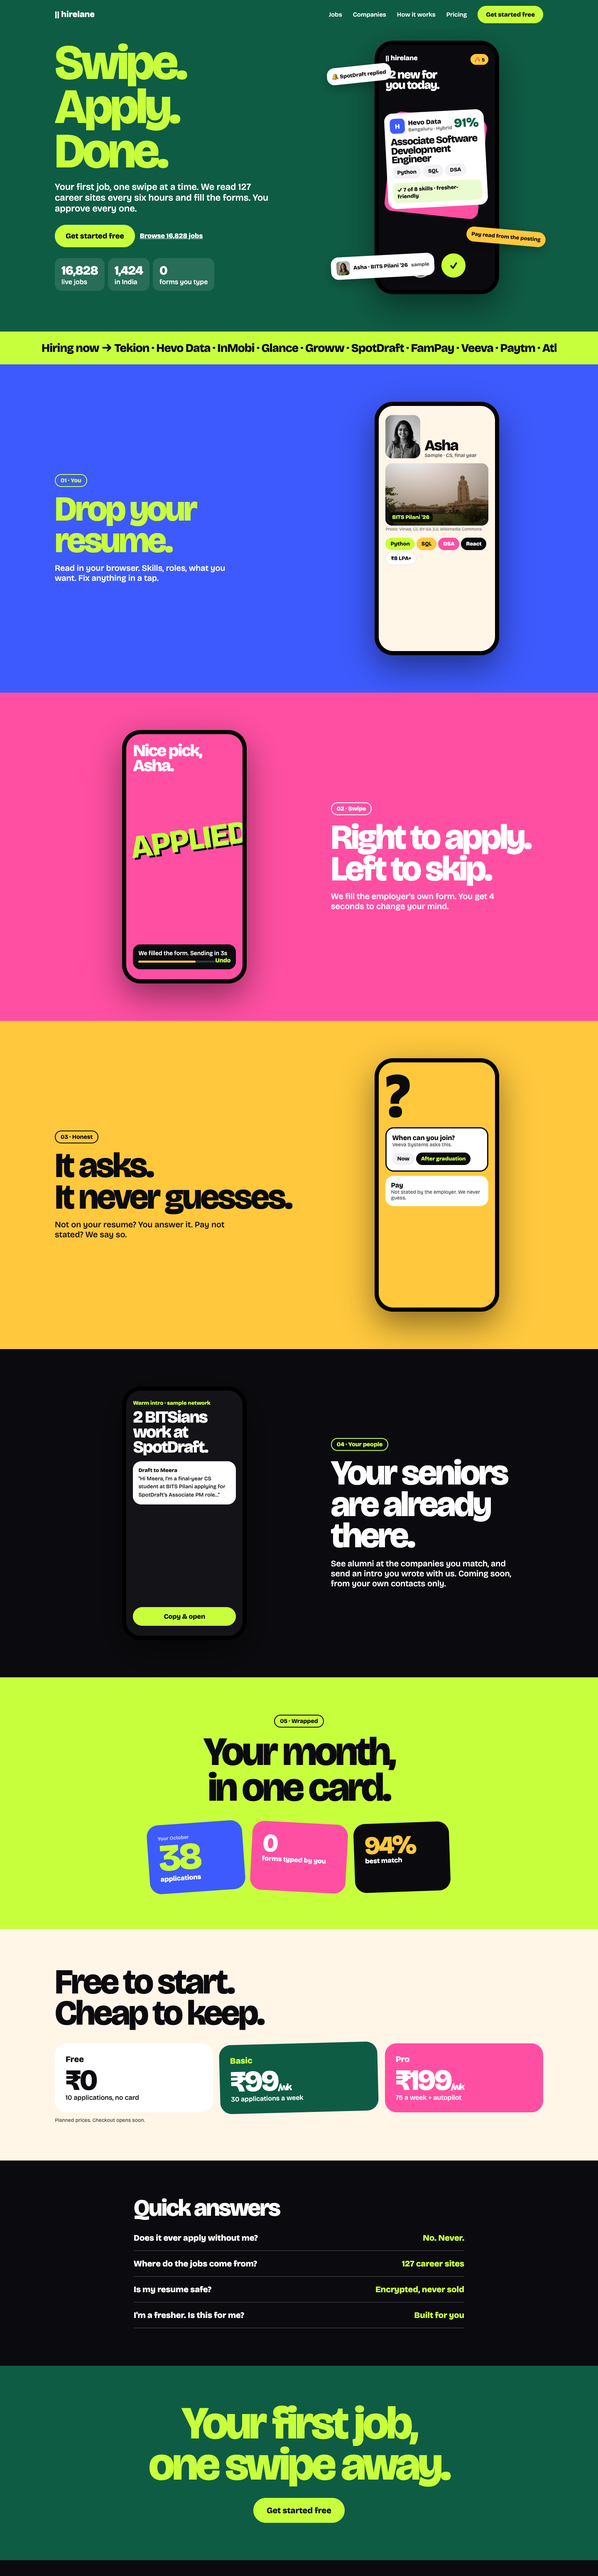
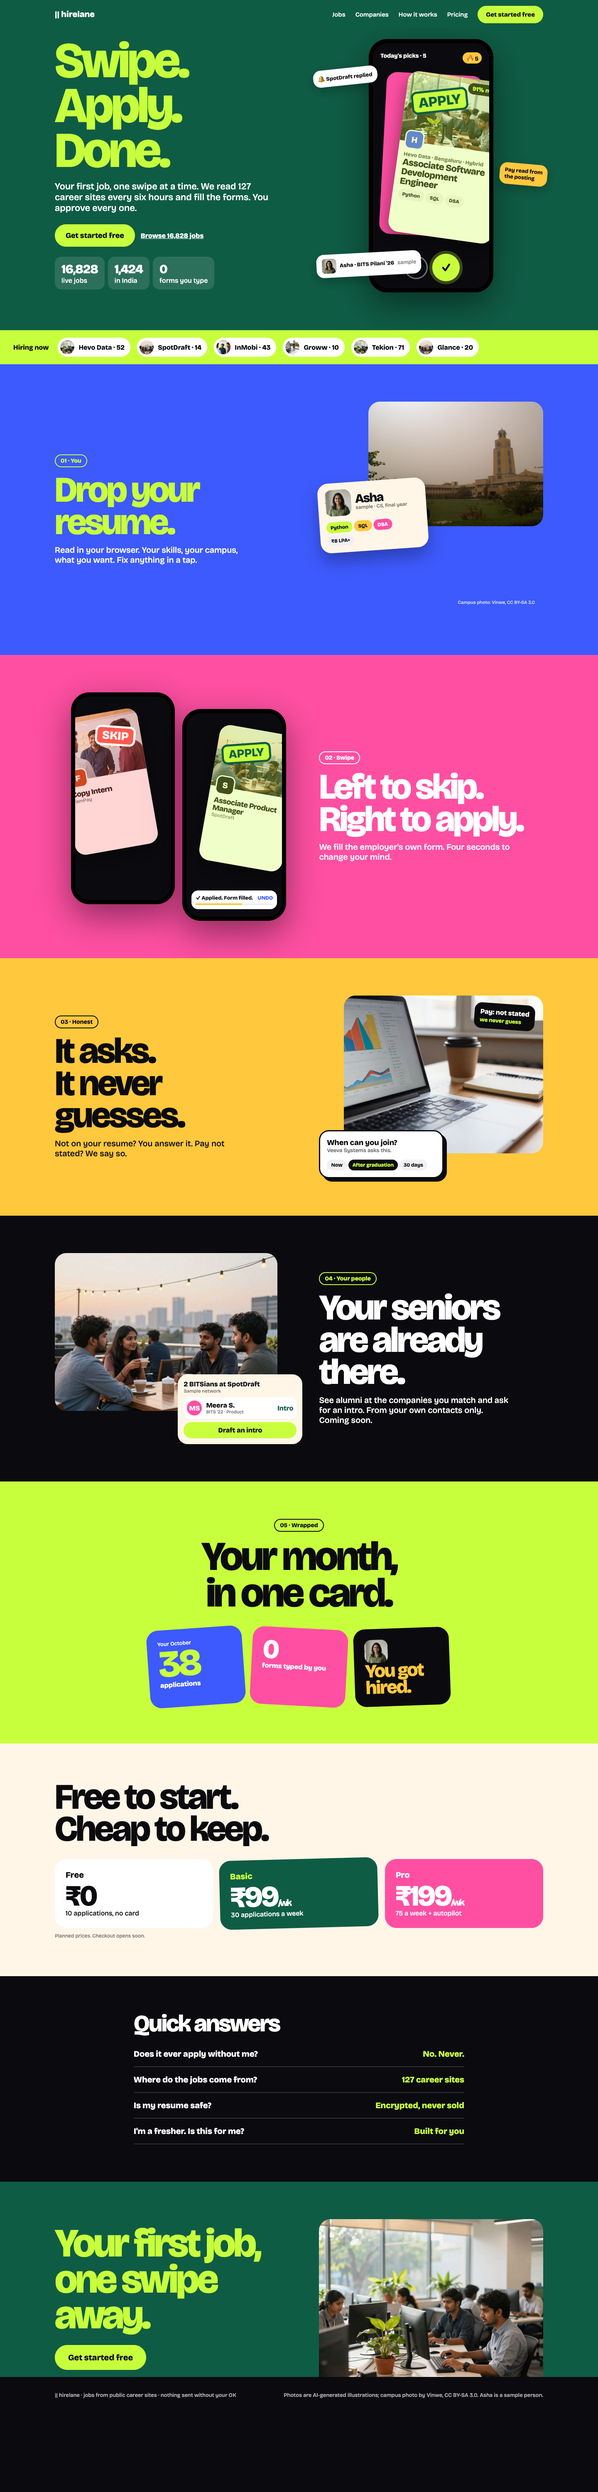
docs(mocks): hub interaction states in the approved Wrapped style

diff --git a/docs/mocks/genz-a-hubs-states.html b/docs/mocks/genz-a-hubs-states.html
@@ -1,0 +1,87 @@
+<!doctype html><html><head><meta charset="utf-8"><title>Hirelane mock A: hub screens v2</title>
+<link href="https://fonts.googleapis.com/css2?family=Bricolage+Grotesque:opsz,wght@12..96,500;12..96,800&display=swap" rel="stylesheet">
+<style>
+:root{--ink:#0B0B0F;--lane:#0F5C45;--lime:#C8FF3D;--pink:#FF4FA3;--blue:#3D5AFE;--sun:#FFC83D;--cream:#FFF6E8}
+*{box-sizing:border-box;margin:0}body{font-family:'Bricolage Grotesque',system-ui,sans-serif;background:#141418;color:#fff;padding:34px 36px}
+h1.t{font-size:15px;font-weight:500;opacity:.6;margin-bottom:20px}.row{display:flex;gap:26px;justify-content:center}
+.ph{width:300px;height:640px;border-radius:44px;background:#000;padding:10px;box-shadow:0 24px 60px rgba(0,0,0,.5);flex:none}
+.sc{width:100%;height:100%;border-radius:35px;overflow:hidden;position:relative;padding:0 14px 76px}
+.sb{display:flex;justify-content:space-between;font-size:12px;font-weight:800;padding:12px 8px 8px}
+.lab{font-size:12px;opacity:.55;text-align:center;margin-top:10px}.big{font-weight:800;line-height:.92;letter-spacing:-.045em}
+.card{background:#fff;color:var(--ink);border-radius:18px;padding:11px}.small{font-size:11.5px;opacity:.72}
+.tb{position:absolute;left:10px;right:10px;bottom:10px;height:58px;background:rgba(11,11,15,.94);border-radius:22px;display:grid;grid-template-columns:repeat(5,1fr);align-items:center;text-align:center;font-size:10px;color:#9a9aa5}
+.tb svg{width:20px;height:20px;display:block;margin:0 auto 2px;stroke:currentColor;fill:none;stroke-width:2.2;stroke-linecap:round;stroke-linejoin:round}
+.tb .on{color:var(--lime);font-weight:800}.tb .on svg{stroke:var(--lime)}
+.dot{position:absolute;top:8px;right:22%;width:8px;height:8px;border-radius:50%;background:var(--pink)}
+.story{width:54px;flex:none;text-align:center;font-size:10px}.story span{display:grid;place-items:center;width:54px;height:54px;border-radius:50%;font-weight:800;border:3px solid var(--lime);outline:2px solid var(--ink);outline-offset:-5px;color:#fff}
+.ch{display:inline-block;padding:6px 10px;border-radius:99px;font-size:12px;font-weight:800;margin:3px 3px 0 0}
+.av{width:30px;height:30px;border-radius:50%;display:grid;place-items:center;font-weight:800;font-size:11px;border:2px solid #fff;margin-left:-8px}
+.lab b{color:var(--lime)}.press{transform:scale(.96);box-shadow:inset 0 0 0 3px rgba(0,0,0,.15)}
+.sheet{position:absolute;left:0;right:0;bottom:0;border-radius:28px 28px 0 0;padding:12px 16px 84px;box-shadow:0 -12px 30px rgba(0,0,0,.3)}
+.grab{width:40px;height:5px;border-radius:5px;background:rgba(0,0,0,.25);margin:0 auto 10px}
+.toastx{position:absolute;left:14px;right:14px;bottom:80px;border-radius:16px;padding:11px 13px;font-weight:800;font-size:13px;box-shadow:0 10px 24px rgba(0,0,0,.3);z-index:5}
+.thumb{width:34px;height:34px;border-radius:10px;background-size:cover;background-position:center;flex:none}
+.tl{border-left:3px solid rgba(0,0,0,.15);margin-left:8px;padding-left:14px}.tl div{position:relative;padding:5px 0;font-size:12.5px}.tl div::before{content:"";position:absolute;left:-21px;top:9px;width:11px;height:11px;border-radius:50%;background:var(--ink)}
+</style></head><body>
+<h1 class="t">MOCK A · hub screens · interaction states in the approved Wrapped style · two states per tab · photos small and supporting · samples labelled</h1>
+<svg width="0" height="0" style="position:absolute"><defs>
+<symbol id="home" viewBox="0 0 24 24"><path d="M3 11l9-7 9 7v9a1 1 0 0 1-1 1h-5v-6H9v6H4a1 1 0 0 1-1-1z"/></symbol>
+<symbol id="disc" viewBox="0 0 24 24"><circle cx="11" cy="11" r="7"/><path d="M20 20l-3.5-3.5"/></symbol>
+<symbol id="comp" viewBox="0 0 24 24"><rect x="4" y="3" width="16" height="18" rx="2"/><path d="M9 7h2M13 7h2M9 11h2M13 11h2M10 21v-4h4v4"/></symbol>
+<symbol id="net" viewBox="0 0 24 24"><circle cx="6" cy="7" r="3"/><circle cx="18" cy="7" r="3"/><circle cx="12" cy="18" r="3"/><path d="M8.5 8.5l2 7M15.5 8.5l-2 7M9 7h6"/></symbol>
+<symbol id="you" viewBox="0 0 24 24"><circle cx="12" cy="8" r="4"/><path d="M4 21a8 8 0 0 1 16 0"/></symbol>
+</defs></svg>
+<div class="row" style="margin-bottom:26px"><div><div class="ph"><div class="sc" style="background:var(--ink);color:#fff"><div class="sb"><span>9:41</span><span>5G ▮▮▮ 82%</span></div><div style="display:flex;justify-content:space-between;align-items:center"><b style="font-size:15px">|| hirelane</b><span style="background:var(--sun);color:var(--ink);border-radius:99px;padding:4px 9px;font-weight:800;font-size:12px">🔥 5 days</span></div>
+<div style="display:flex;gap:8px;margin-top:12px"><div class="story" style="transform:scale(1.12)"><span style="background:var(--pink);box-shadow:0 0 0 4px rgba(255,79,163,.35)">S</span>SpotDraft</div><div class="story" style="opacity:.5"><span style="background:var(--blue)">V</span>Veeva</div><div class="story" style="opacity:.5"><span style="background:var(--lane)">H</span>Hevo</div><div class="story" style="opacity:.5"><span style="background:#C2410C">F</span>FamPay</div></div>
+<div style="position:absolute;left:10px;right:10px;top:120px;bottom:76px;background:var(--pink);border-radius:26px;padding:14px;transform-origin:30% 0;box-shadow:0 20px 40px rgba(0,0,0,.4)">
+ <div style="display:flex;gap:4px"><i style="flex:1;height:4px;border-radius:4px;background:#fff"></i><i style="flex:1;height:4px;border-radius:4px;background:rgba(255,255,255,.4)"></i><i style="flex:1;height:4px;border-radius:4px;background:rgba(255,255,255,.4)"></i></div>
+ <div style="display:flex;gap:8px;align-items:center;margin-top:10px"><div style="width:34px;height:34px;border-radius:10px;background:var(--ink);color:var(--lime);display:grid;place-items:center;font-weight:800">S</div><b>SpotDraft</b><span class="small" style="color:#fff">· 2h</span></div>
+ <div class="big" style="font-size:96px;margin-top:14px">3</div><div class="big" style="font-size:30px">new roles this week.</div>
+ <div style="margin-top:12px;display:grid;gap:6px"><div class="card" style="display:flex;justify-content:space-between"><b style="font-size:13px">Associate PM</b><b style="color:var(--lane)">88%</b></div><div class="card" style="display:flex;justify-content:space-between"><b style="font-size:13px">Analyst</b><b style="color:var(--lane)">81%</b></div></div>
+ <div style="position:absolute;left:14px;right:14px;bottom:14px;display:flex;gap:8px"><div style="flex:1;border:3px solid #fff;border-radius:99px;padding:10px;text-align:center;font-weight:800">Follow</div><div style="flex:1.4;background:var(--lime);color:var(--ink);border-radius:99px;padding:10px;text-align:center;font-weight:800">Swipe these</div></div>
+</div><div class="tb"><div class="on"><svg><use href="#home"/></svg>Home</div><div class=""><svg><use href="#disc"/></svg>Discover</div><div class=""><svg><use href="#comp"/></svg>Companies</div><div class=""><svg><use href="#net"/></svg>Network</div><div class=""><svg><use href="#you"/></svg>You</div></div></div></div><div class="lab"><b>Home · tap a story.</b> The bubble pops, its colour block grows into a story: big number, roles, Follow / Swipe. Tap to advance, swipe down to close.</div></div><div><div class="ph"><div class="sc" style="background:var(--ink);color:#fff"><div class="sb"><span>9:41</span><span>5G ▮▮▮ 82%</span></div><div style="display:flex;justify-content:space-between;align-items:center"><b style="font-size:15px">Today's picks</b><span class="small" style="color:#fff">3 of 5</span></div>
+<div style="display:flex;gap:4px;margin-top:8px"><i style="flex:1;height:4px;border-radius:4px;background:var(--lime)"></i><i style="flex:1;height:4px;border-radius:4px;background:var(--lime)"></i><i style="flex:1;height:4px;border-radius:4px;background:rgba(255,255,255,.3)"></i><i style="flex:1;height:4px;border-radius:4px;background:rgba(255,255,255,.3)"></i><i style="flex:1;height:4px;border-radius:4px;background:rgba(255,255,255,.3)"></i></div>
+<div class="card" style="position:absolute;left:24px;right:24px;top:96px;height:330px;background:var(--blue);transform:rotate(4deg)"></div>
+<div class="card" style="position:absolute;left:16px;right:16px;top:90px;height:340px;background:var(--sun);transform:translateX(30px) rotate(7deg);padding:16px">
+ <div style="position:absolute;left:14px;top:18px;background:var(--lime);border:3px solid var(--ink);border-radius:12px;padding:2px 10px;font-weight:800;font-size:22px;transform:rotate(-12deg)">APPLY</div>
+ <div style="display:flex;justify-content:flex-end"><b style="font-size:30px">94%</b></div>
+ <div style="display:flex;gap:8px;align-items:center;margin-top:30px"><div class="thumb" style="background-image:url(img/office-d.jpg)"></div><b>Veeva Systems</b></div>
+ <div class="big" style="font-size:32px;margin-top:8px">Associate Software Engineer</div>
+ <div style="margin-top:6px"><span class="ch" style="background:#fff">Java</span><span class="ch" style="background:#fff">SQL</span><span class="ch" style="background:#fff">Testing</span></div>
+ <div style="margin-top:10px;background:var(--ink);color:var(--lime);border-radius:12px;padding:8px 10px;font-weight:800;font-size:12.5px">✓ 6 of 7 · fresher-friendly</div>
+</div>
+<div style="position:absolute;bottom:76px;left:0;right:0;display:flex;justify-content:center;gap:18px"><span style="width:52px;height:52px;border-radius:50%;border:3px solid #fff;display:grid;place-items:center;font-weight:800;opacity:.4">✕</span><span style="width:60px;height:60px;border-radius:50%;background:var(--lime);color:var(--ink);display:grid;place-items:center;font-weight:800;font-size:22px;box-shadow:0 0 0 7px rgba(200,255,61,.25)">✓</span></div><div class="tb"><div class="on"><svg><use href="#home"/></svg>Home</div><div class=""><svg><use href="#disc"/></svg>Discover</div><div class=""><svg><use href="#comp"/></svg>Companies</div><div class=""><svg><use href="#net"/></svg>Network</div><div class=""><svg><use href="#you"/></svg>You</div></div></div></div><div class="lab"><b>Home · swiping picks.</b> Tap the picks tile and the stack takes the screen: story bars track progress, the colour card tilts with APPLY, ✓ swells.</div></div><div><div class="ph"><div class="sc" style="background:var(--pink);color:#fff"><div class="sb"><span>9:41</span><span>5G ▮▮▮ 82%</span></div><div class="big" style="font-size:36px">Discover</div>
+<div style="background:#fff;color:var(--ink);border-radius:18px;padding:10px 14px;font-size:14px;margin-top:8px;border:3px solid var(--ink)"><b>data an</b><span style="display:inline-block;width:2px;height:16px;background:var(--ink);vertical-align:middle;animation:none"></span></div>
+<div class="card" style="margin-top:6px;padding:6px">
+ <div style="padding:8px;border-radius:12px;background:var(--lime);font-weight:800">data an<span style="opacity:.5">alyst</span> <span class="small">· 42 jobs</span></div>
+ <div style="padding:8px;font-weight:800">data an<span style="opacity:.5">alytics intern</span> <span class="small">· 9</span></div>
+ <div style="padding:8px;font-weight:800">data an<span style="opacity:.5">notation</span> <span class="small">· 3</span></div>
+ <div style="padding:8px;display:flex;gap:8px;align-items:center;border-top:1px solid #eee"><div class="thumb" style="background-image:url(img/office-a.jpg);width:28px;height:28px"></div><b style="font-size:13px">Hevo Data</b><span class="small">company · 52 roles</span></div>
+</div>
+<div class="small" style="margin-top:10px;color:#fff;opacity:.9">Recent: <b>SDE fresher</b> · <b>remote internships</b></div><div class="tb"><div class=""><svg><use href="#home"/></svg>Home</div><div class="on"><svg><use href="#disc"/></svg>Discover</div><div class=""><svg><use href="#comp"/></svg>Companies</div><div class=""><svg><use href="#net"/></svg>Network</div><div class=""><svg><use href="#you"/></svg>You</div></div></div></div><div class="lab"><b>Discover · typing.</b> Suggestions complete as you type with live counts; companies show a tiny photo. Tap a row to jump.</div></div><div><div class="ph"><div class="sc" style="background:var(--pink);color:var(--ink)"><div class="sb"><span>9:41</span><span>5G ▮▮▮ 82%</span></div><div class="big" style="font-size:36px;opacity:.5">Discover</div>
+<div class="sheet" style="background:var(--cream);color:var(--ink);height:430px"><div class="grab"></div>
+<div style="display:flex;justify-content:space-between"><b style="font-size:18px">Filters</b><b style="color:var(--blue)">Reset</b></div>
+<div style="font-weight:800;margin-top:10px;font-size:13px">Experience</div><div><span class="ch" style="background:var(--ink);color:var(--lime)">Fresher</span><span class="ch press" style="background:#ddd">0–2 yrs</span></div>
+<div style="font-weight:800;margin-top:10px;font-size:13px">Minimum pay</div>
+<div style="position:relative;height:36px;margin-top:4px"><div style="position:absolute;top:20px;left:0;right:0;height:6px;border-radius:6px;background:#ddd"></div><div style="position:absolute;top:20px;left:0;width:48%;height:6px;border-radius:6px;background:var(--lane)"></div><div style="position:absolute;top:10px;left:45%;width:26px;height:26px;border-radius:50%;background:var(--lime);border:3px solid var(--ink);transform:scale(1.25)"></div><div style="position:absolute;left:36%;top:-14px;background:var(--ink);color:var(--lime);border-radius:8px;padding:2px 8px;font-weight:800;font-size:12px">₹6 LPA</div></div>
+<div style="font-weight:800;margin-top:8px;font-size:13px">Where</div><div><span class="ch" style="background:var(--ink);color:var(--lime)">Bengaluru</span><span class="ch" style="background:var(--ink);color:var(--lime)">Remote</span><span class="ch" style="background:#fff;border:1px solid #ddd">Pune</span></div>
+<div style="position:absolute;left:16px;right:16px;bottom:16px;background:var(--lane);color:var(--lime);border-radius:99px;padding:13px;text-align:center;font-weight:800">Show 128 jobs <span style="font-size:12px;opacity:.75">↓ 214</span></div></div></div></div><div class="lab"><b>Discover · filtering.</b> Chips squish when pressed, the pay thumb grows while dragged, and the button count drops live.</div></div></div><div class="row" style="margin-bottom:26px"><div><div class="ph"><div class="sc" style="background:var(--sun);color:var(--ink)"><div class="sb"><span>9:41</span><span>5G ▮▮▮ 82%</span></div><div style="display:flex;gap:10px;align-items:center"><div style="width:54px;height:54px;border-radius:16px;background:var(--ink);color:var(--lime);display:grid;place-items:center;font-weight:800;font-size:24px">S</div><div><div class="big" style="font-size:28px">SpotDraft</div><div class="small">read 2h ago</div></div></div>
+<div style="display:flex;gap:8px;margin-top:10px"><div style="flex:1;background:var(--lane);color:var(--lime);border-radius:99px;padding:9px;text-align:center;font-weight:800">✓ Following</div><div style="background:#fff;border-radius:99px;padding:9px 14px;font-weight:800">Share</div></div>
+<div style="display:grid;grid-template-columns:1fr 1fr;gap:8px;margin-top:10px"><div class="card"><div class="big" style="font-size:30px">14</div><div class="small">open roles</div></div><div class="card press" style="background:var(--pink);color:#fff"><b>2 BITSians here</b><div class="small" style="color:#fff">tap for an intro</div></div></div>
+<div class="toastx" style="background:var(--ink);color:#fff">✓ Following SpotDraft <span style="color:var(--lime)">· new roles land in your Home stories</span></div><div class="tb"><div class=""><svg><use href="#home"/></svg>Home</div><div class=""><svg><use href="#disc"/></svg>Discover</div><div class="on"><svg><use href="#comp"/></svg>Companies</div><div class=""><svg><use href="#net"/></svg>Network</div><div class=""><svg><use href="#you"/></svg>You</div></div></div></div><div class="lab"><b>Company · follow.</b> The button flips to "Following" in lane green with a toast. The alumni tile presses in, about to open.</div></div><div><div class="ph"><div class="sc" style="background:var(--sun);color:var(--ink)"><div class="sb"><span>9:41</span><span>5G ▮▮▮ 82%</span></div><div class="big" style="font-size:28px;opacity:.45">SpotDraft</div>
+<div class="sheet" style="background:var(--ink);color:#fff;height:470px"><div class="grab" style="background:rgba(255,255,255,.3)"></div>
+<div class="big" style="font-size:32px">2 BITSians at SpotDraft</div><div class="small" style="color:var(--lime);opacity:1">Sample network · from your own contacts later</div>
+<div style="display:flex;gap:10px;align-items:center;margin-top:12px;background:var(--pink);border-radius:18px;padding:11px"><div style="width:42px;height:42px;border-radius:50%;background:var(--ink);display:grid;place-items:center;font-weight:800">MS</div><div style="flex:1"><b>Meera S.</b><div class="small" style="color:#fff">BITS '22 · Product · strong tie</div></div><b>Intro →</b></div>
+<div style="display:flex;gap:10px;align-items:center;margin-top:8px;background:var(--blue);border-radius:18px;padding:11px"><div style="width:42px;height:42px;border-radius:50%;background:var(--ink);display:grid;place-items:center;font-weight:800">RK</div><div style="flex:1"><b>Rohan K.</b><div class="small" style="color:#fff">BITS '23 · Engineering</div></div><b>Intro →</b></div>
+<div class="card" style="margin-top:10px;font-size:12.5px;line-height:1.5"><b>Draft to Meera</b><br>"Hi Meera, I'm a final-year CS student at BITS Pilani applying for SpotDraft's Associate PM role…"</div>
+<div style="position:absolute;left:16px;right:16px;bottom:16px;background:var(--lime);color:var(--ink);border-radius:99px;padding:13px;text-align:center;font-weight:800">Copy &amp; open</div></div></div></div><div class="lab"><b>Company · alumni sheet.</b> Colour-block rows per person, the draft intro ready to copy. You send it yourself.</div></div><div><div class="ph"><div class="sc" style="background:var(--cream);color:var(--ink)"><div class="sb"><span>9:41</span><span>5G ▮▮▮ 82%</span></div><div style="display:flex;justify-content:space-between;align-items:center"><div class="big" style="font-size:28px">Tracker</div><span class="small">5 this week</span></div>
+<div class="card" style="margin-top:10px;background:var(--pink);color:#fff;padding:14px">
+ <div style="display:flex;gap:10px;align-items:center"><div class="thumb" style="background-image:url(img/office-c.jpg)"></div><div style="flex:1"><b>SpotDraft</b><div class="small" style="color:#fff">Associate PM</div></div><span style="border:3px solid #fff;border-radius:10px;padding:2px 8px;font-weight:800;transform:rotate(-6deg)">REPLY</span></div>
+ <div class="tl" style="margin-top:10px;border-left-color:rgba(255,255,255,.4)"><div style="--d:#fff">Matched 88% · Mon 9:02</div><div>Drafted · 1 question asked</div><div>You approved · Mon 9:14</div><div>Handed off to their own form</div><div style="font-weight:800">"Can you do a call Thursday?" · Wed</div></div>
+ <div style="display:flex;gap:8px;margin-top:10px"><div style="flex:1;border:3px solid #fff;border-radius:99px;padding:9px;text-align:center;font-weight:800">Add note</div><div style="flex:1.3;background:var(--lime);color:var(--ink);border-radius:99px;padding:9px;text-align:center;font-weight:800">Reply</div></div>
+</div>
+<div class="card" style="margin-top:8px;display:flex;justify-content:space-between;opacity:.6"><b>Veeva Systems</b><b style="color:var(--lane)">Handed off</b></div><div class="tb"><div class=""><svg><use href="#home"/></svg>Home</div><div class=""><svg><use href="#disc"/></svg>Discover</div><div class=""><svg><use href="#comp"/></svg>Companies</div><div class=""><svg><use href="#net"/></svg>Network</div><div class="on"><svg><use href="#you"/></svg>You</div></div></div></div><div class="lab"><b>You · tap an application.</b> The row grows into a colour card with the full timeline and the next action.</div></div><div><div class="ph"><div class="sc" style="background:var(--blue);color:#fff"><div class="sb"><span>9:41</span><span>5G ▮▮▮ 82%</span></div><div style="display:flex;gap:4px;margin-top:2px"><i style="flex:1;height:4px;border-radius:4px;background:#fff"></i><i style="flex:1;height:4px;border-radius:4px;background:#fff"></i><i style="flex:1;height:4px;border-radius:4px;background:rgba(255,255,255,.35)"></i><i style="flex:1;height:4px;border-radius:4px;background:rgba(255,255,255,.35)"></i></div>
+<div style="font-weight:800;margin-top:12px">Your October · replay</div>
+<div class="big" style="font-size:150px;color:var(--lime);margin-top:6px">38</div><div class="big" style="font-size:28px">applications.<br>Zero forms typed.</div>
+<div style="display:grid;grid-template-columns:1fr 1fr;gap:8px;margin-top:14px"><div class="card" style="background:var(--pink);color:#fff"><div class="big" style="font-size:28px">SDE</div><div class="small" style="color:#fff">top role</div></div><div class="card" style="background:var(--sun)"><div class="big" style="font-size:28px">94%</div><div class="small">best match</div></div></div>
+<div style="position:absolute;left:14px;right:14px;bottom:80px;display:flex;gap:8px"><div style="flex:1;background:#fff;color:var(--ink);border-radius:99px;padding:12px;text-align:center;font-weight:800">Share ↗</div><div style="flex:1;border:3px solid #fff;border-radius:99px;padding:12px;text-align:center;font-weight:800">Next ▶</div></div><div class="tb"><div class=""><svg><use href="#home"/></svg>Home</div><div class=""><svg><use href="#disc"/></svg>Discover</div><div class=""><svg><use href="#comp"/></svg>Companies</div><div class=""><svg><use href="#net"/></svg>Network</div><div class="on"><svg><use href="#you"/></svg>You</div></div></div></div><div class="lab"><b>You · recap playing.</b> Tap "Play" on your recap: story bars fill, numbers count up, share any slide.</div></div></div></body></html>

diff --git a/docs/mocks/README.md b/docs/mocks/README.md
@@ -12,6 +12,7 @@ build:
 | `genz-a-screens-3.html` | Companies, Network, Inbox, Search, Internships collection, Saved, Privacy, Welcome | ✅ good |
 | `genz-a-extra.html` | Instahyre-informed: skip with a reason, India preferences, "You got hired" | ✅ good |
 | `genz-a-swipe.html` | The main swipe screen in detail (rest, drag right, drag left, applied + undo, details) | ✅ good (the owner asked to apply this level of detail) |
+| `genz-a-hubs-states.html` | Hub interaction states in the approved style: story open, swiping picks, typing suggestions, filter drag, follow toast, alumni sheet, application timeline, recap replay | 🆕 for review |
 | `genz-a-hubs-detail.html` | Photo-heavy hub states | ❌ rejected (owner: last two rounds bad) |
 | `genz-photo-led.html` | Dating-app, photo-led, serif | ❌ rejected ("very bad") |
 | `genz-a-landing.html` | Landing draft with photo blocks | ⚠ not reviewed; redo in the approved style |
